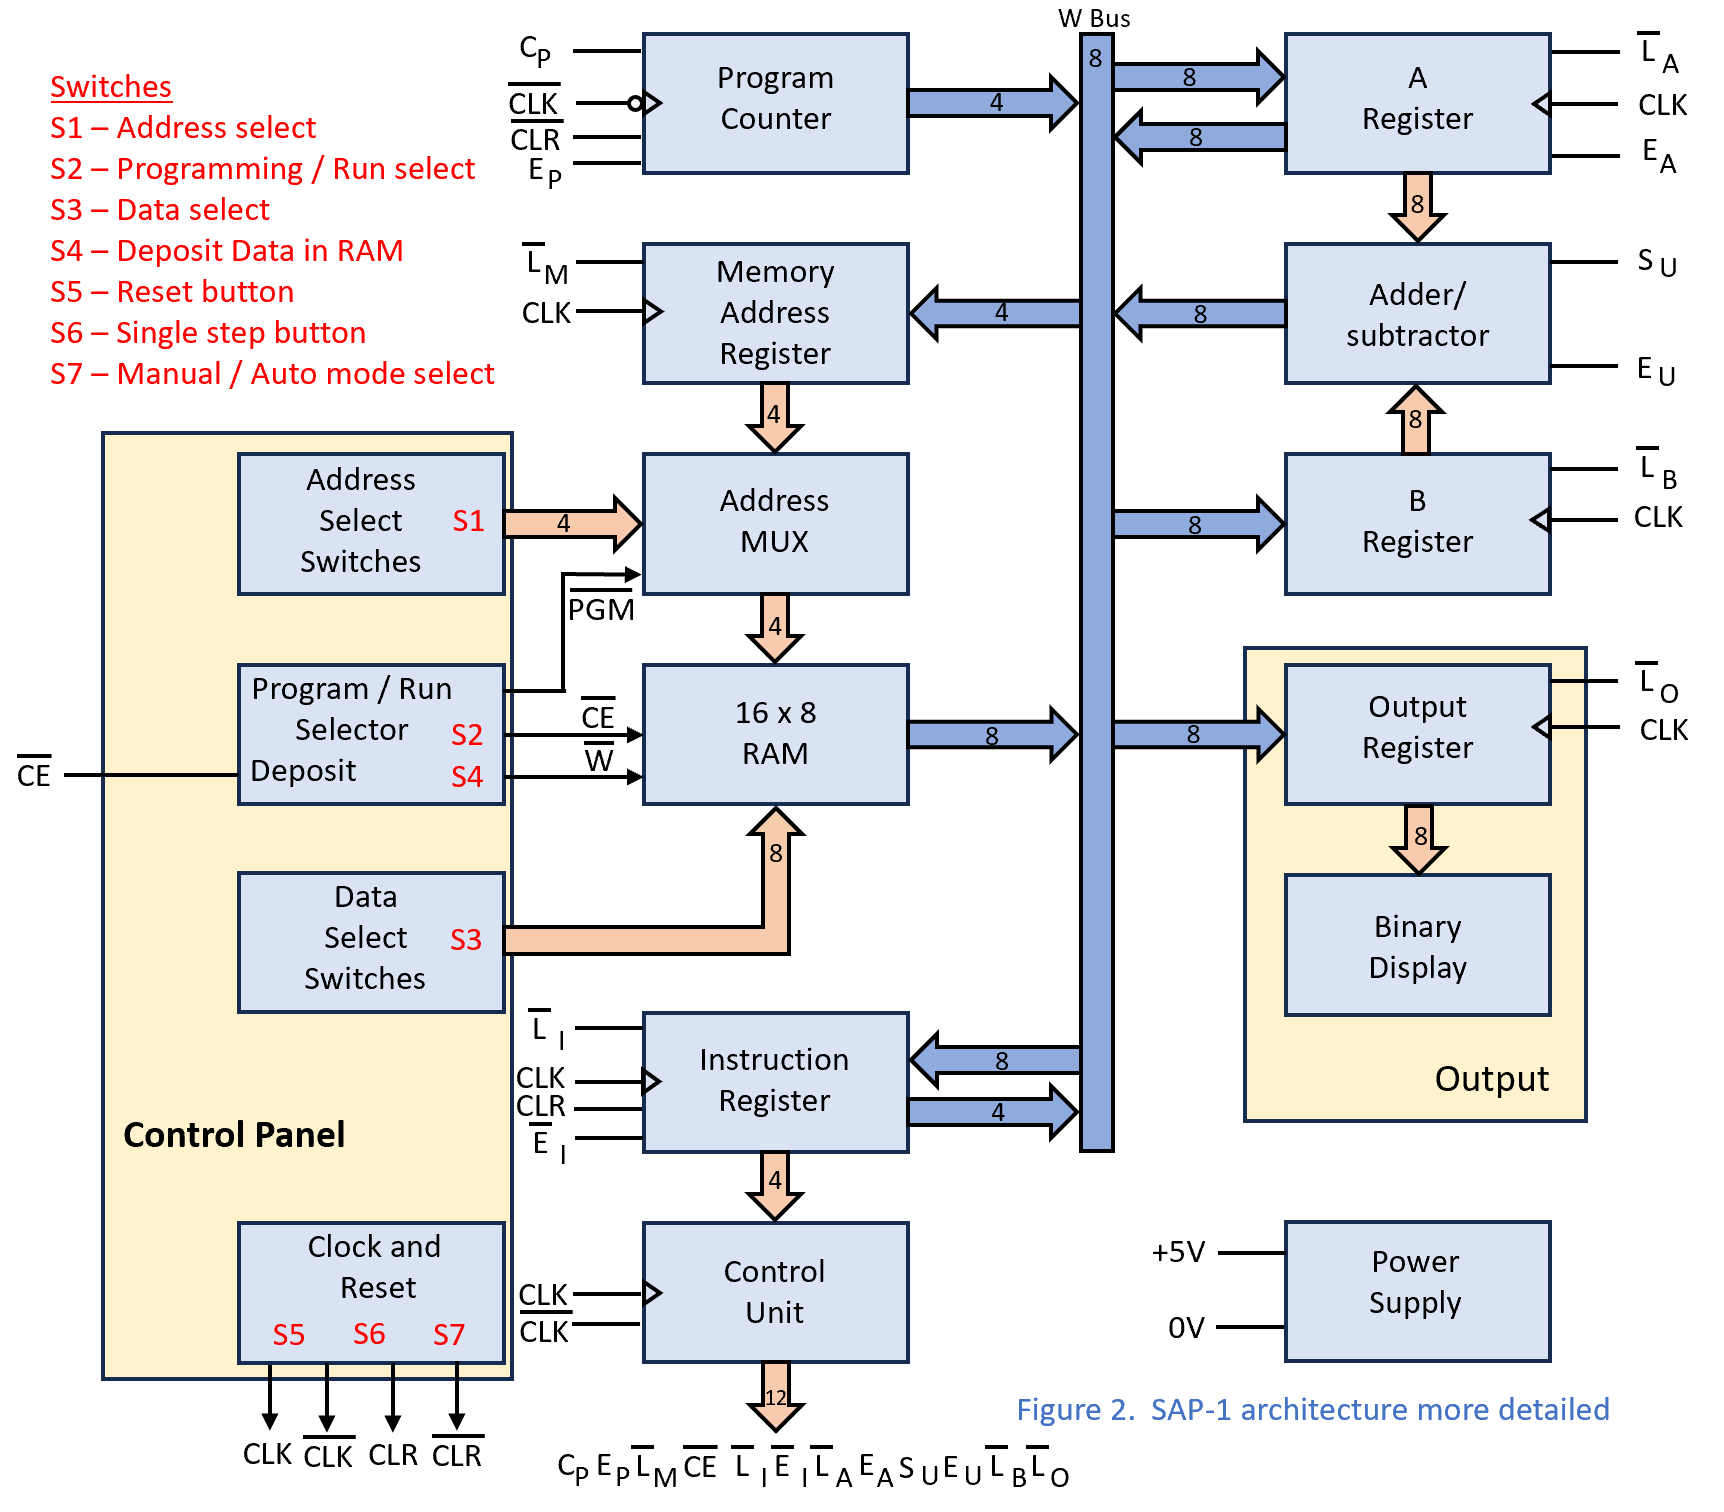
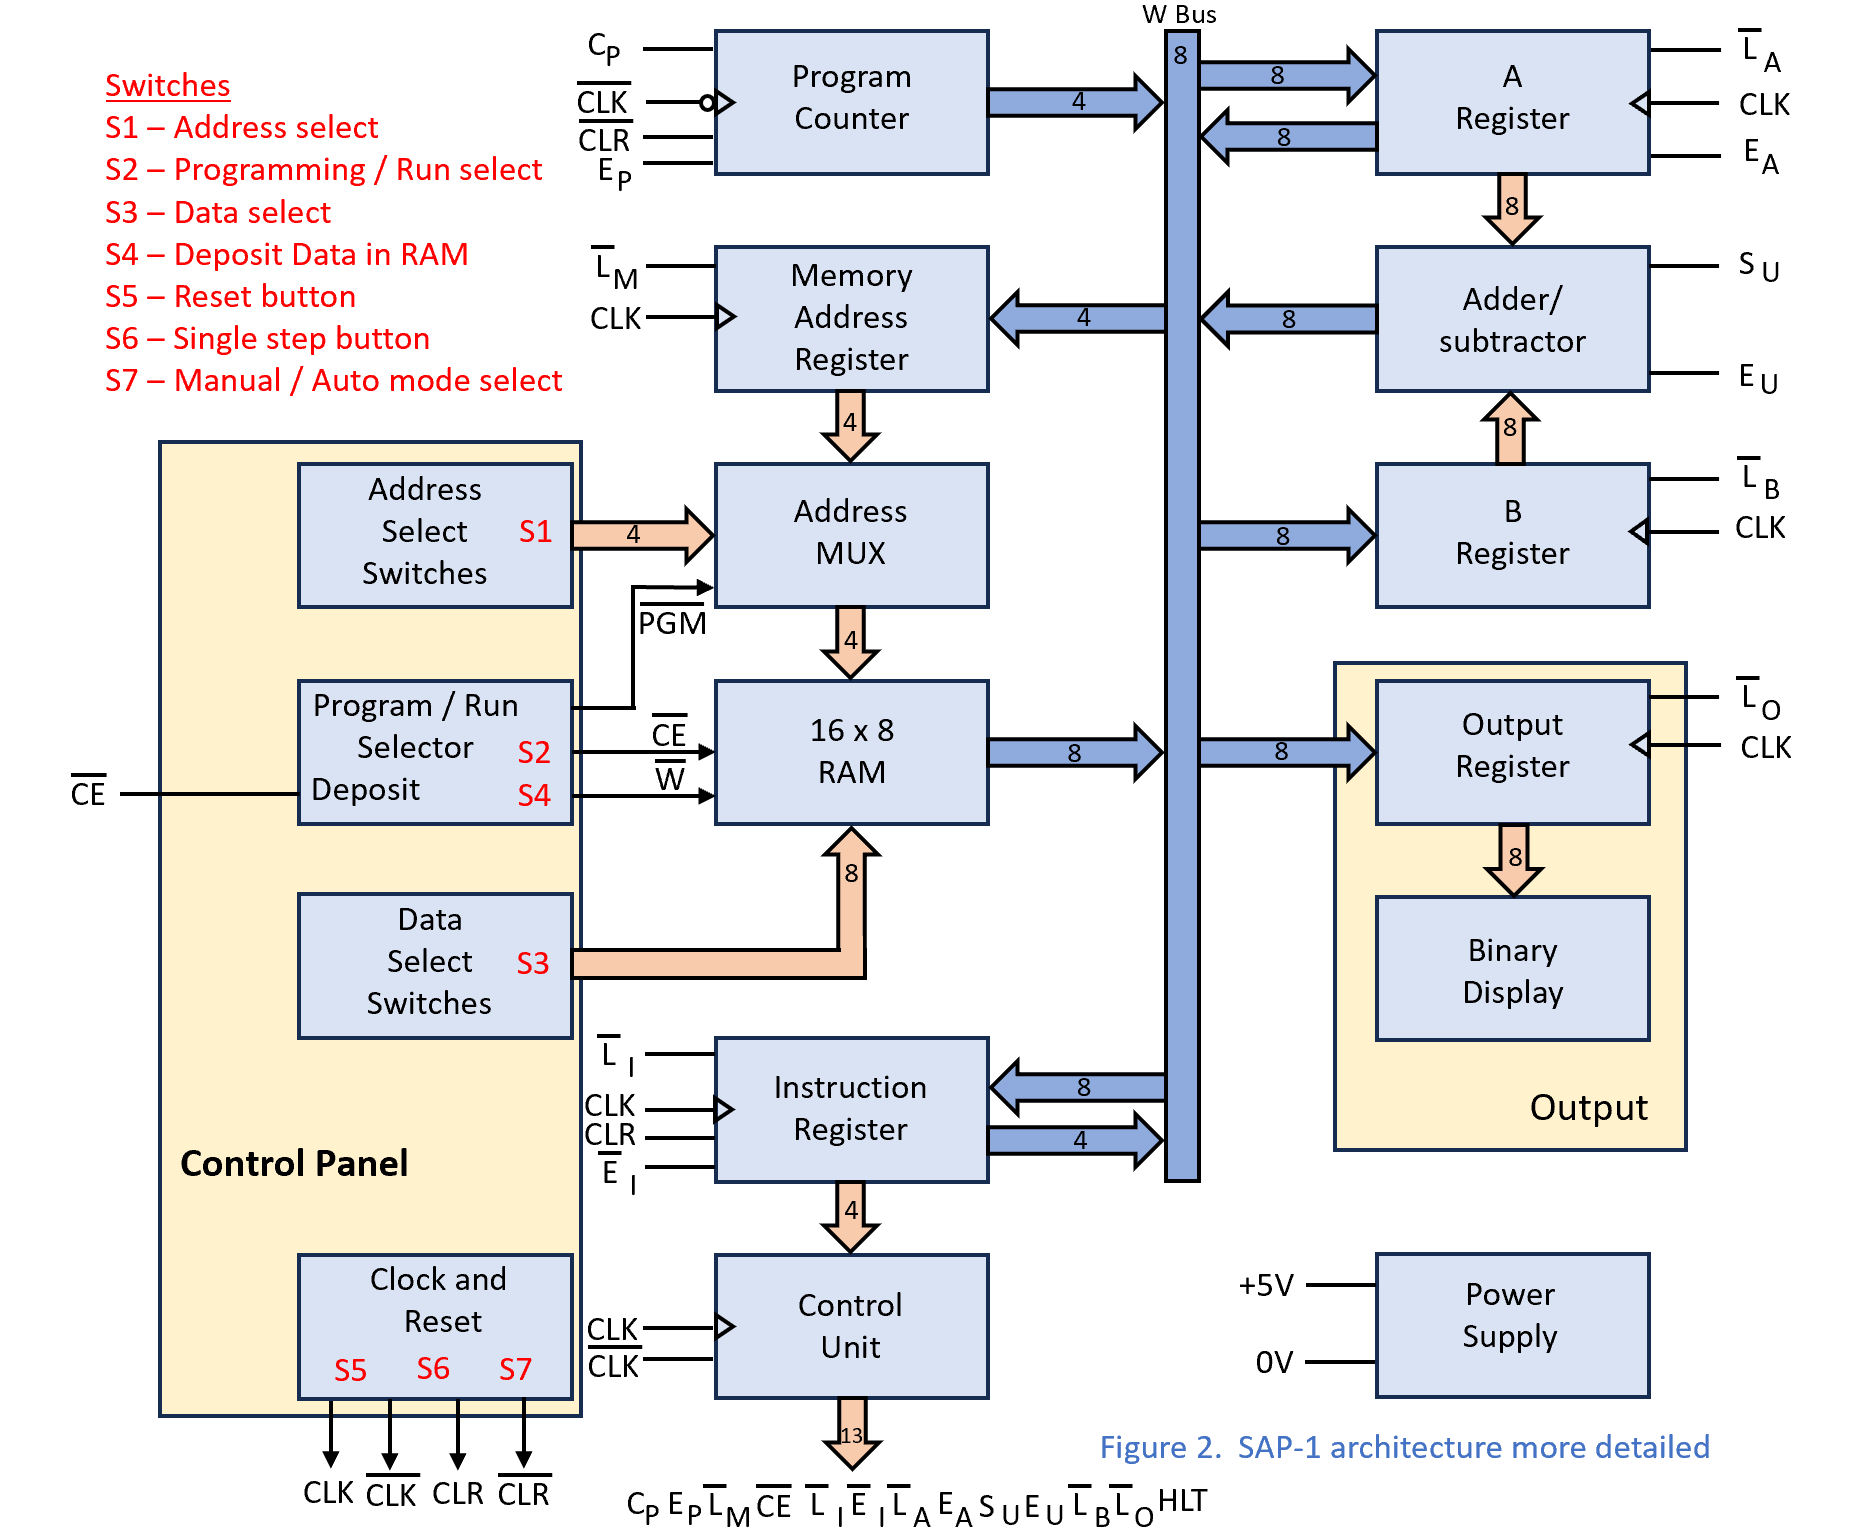
modified:   Pictures/Figure2.png

Changed region(s): [[0.0, 0.0, 0.9838, 0.9947], [0.8608, 0.1554, 0.9838, 0.2487]]

diff --git a/README.md b/README.md
@@ -27,6 +27,8 @@ I studied the original schematic of the SAP-1 Computer and recreated the Block D
 
 ![ Figure 2 ](/Pictures/Figure2.png)
 
+The HLT control signal was omitted in the original Block Diagram.
+
 The programming mode of the SAP-1 Computer described by the authors is as follows: \
 a.	Move selector S2 to the PROG position to enter Programming Mode, \
 b.	Select with the S1 switches the memory address whose content you want to modify, \
